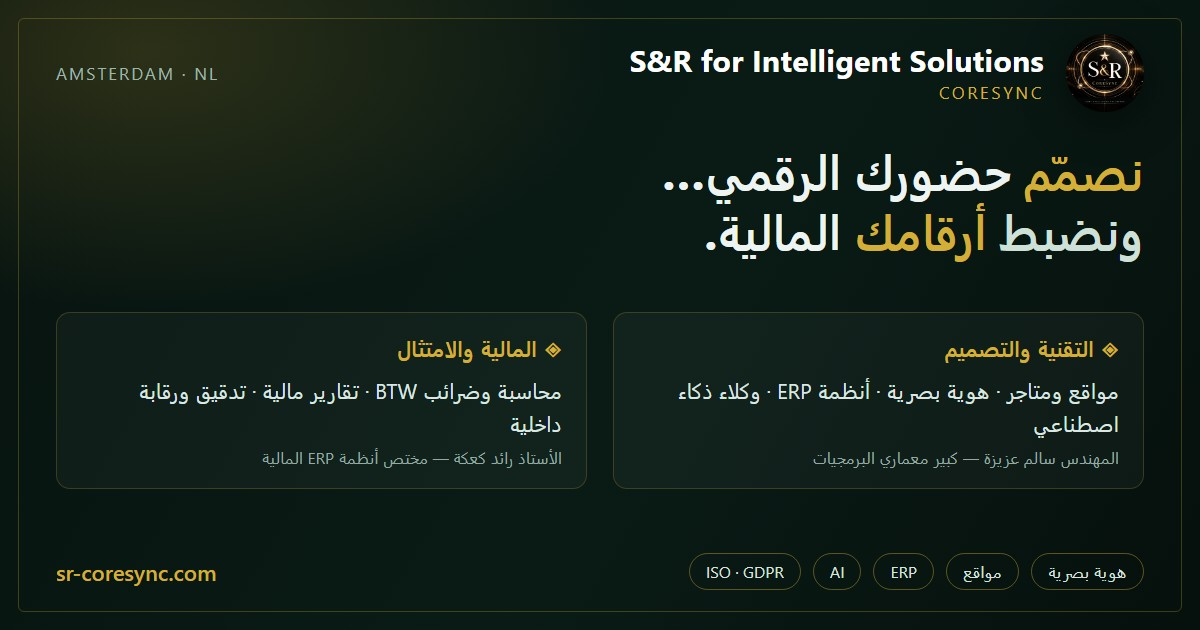
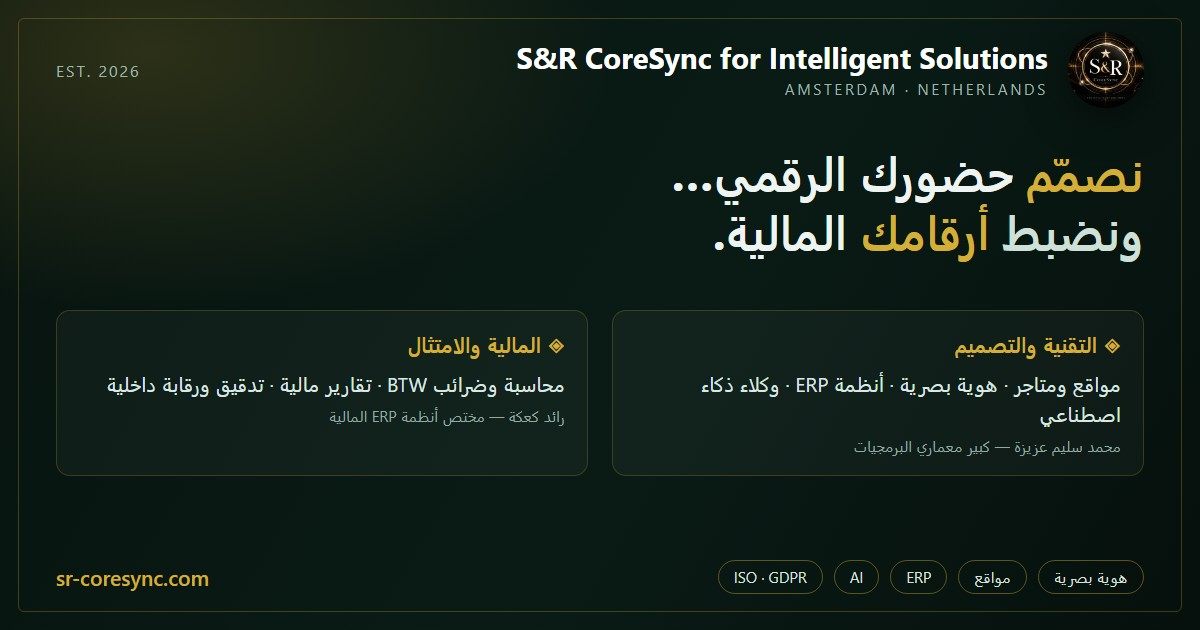
feat(og): the founders card, with real names and real faces

diff --git a/index.html b/index.html
@@ -53,14 +53,14 @@
     <meta name="robots" content="index, follow, max-image-preview:large">
     <meta property="og:type" content="website">
     <meta property="og:site_name" content="S&R CoreSync For Intelligent Solutions">
-    <meta property="og:image" content="https://sr-coresync.com/assets/og/og-share.jpg">
-<meta property="og:image:secure_url" content="https://sr-coresync.com/assets/og/og-share.jpg">
+    <meta property="og:image" content="https://sr-coresync.com/assets/og/og-two-faces.jpg">
+<meta property="og:image:secure_url" content="https://sr-coresync.com/assets/og/og-two-faces.jpg">
 <meta property="og:image:width" content="1200">
 <meta property="og:image:height" content="630">
 <meta property="og:image:type" content="image/jpeg">
-<meta property="og:image:alt" content="S&amp;R CoreSync - sovereign cloud, ERP and AI engineering">
+<meta property="og:image:alt" content="S&amp;R CoreSync for Intelligent Solutions - we build your presence, we keep your numbers">
 <meta name="twitter:card" content="summary_large_image">
-<meta name="twitter:image" content="https://sr-coresync.com/assets/og/og-share.jpg">
+<meta name="twitter:image" content="https://sr-coresync.com/assets/og/og-two-faces.jpg">
 <meta property="og:title"
         content="S&R CoreSync For Intelligent Solutions | القيادة التنفيذية وهندسة البرمجيات السحابية وأنظمة ERP المتقدمة">
     <meta property="og:description"
